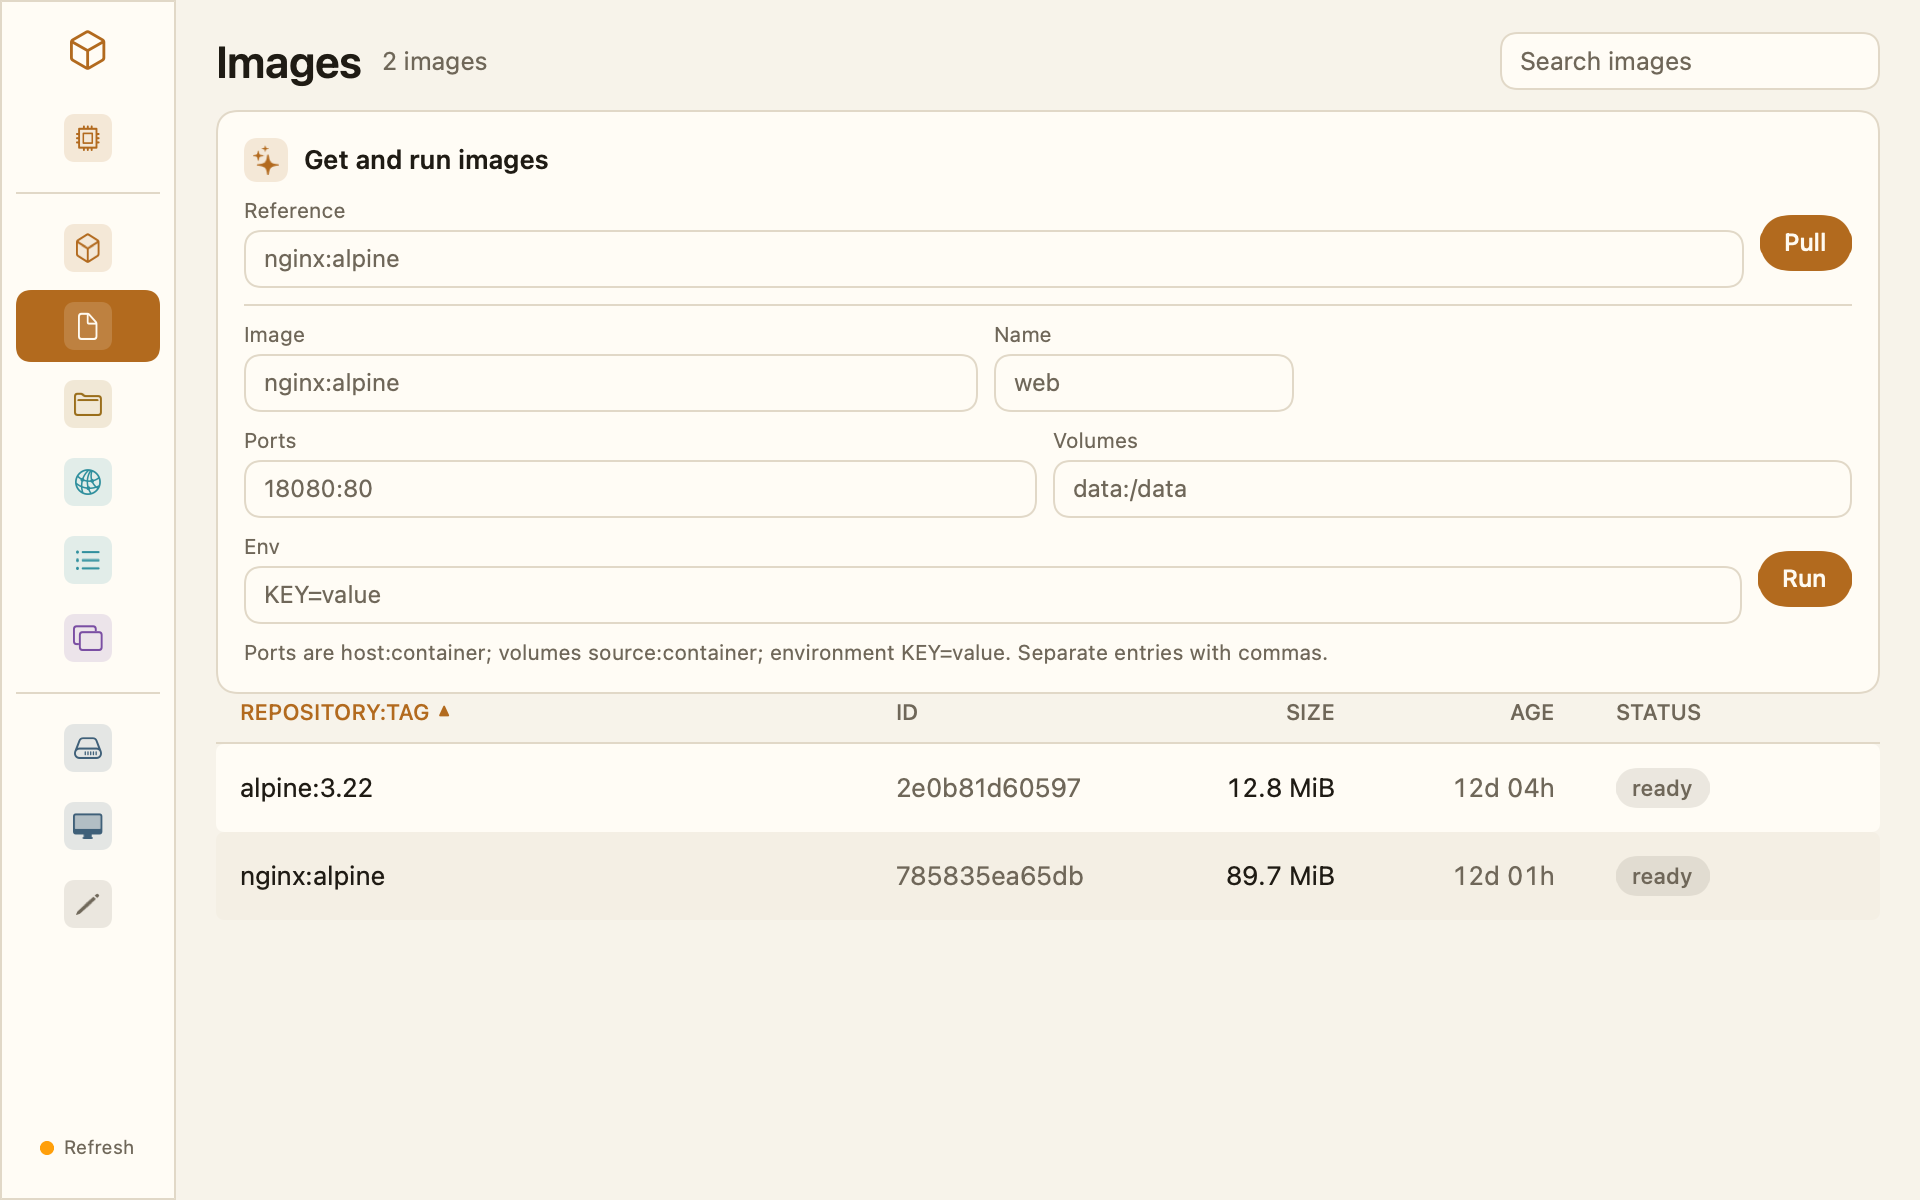
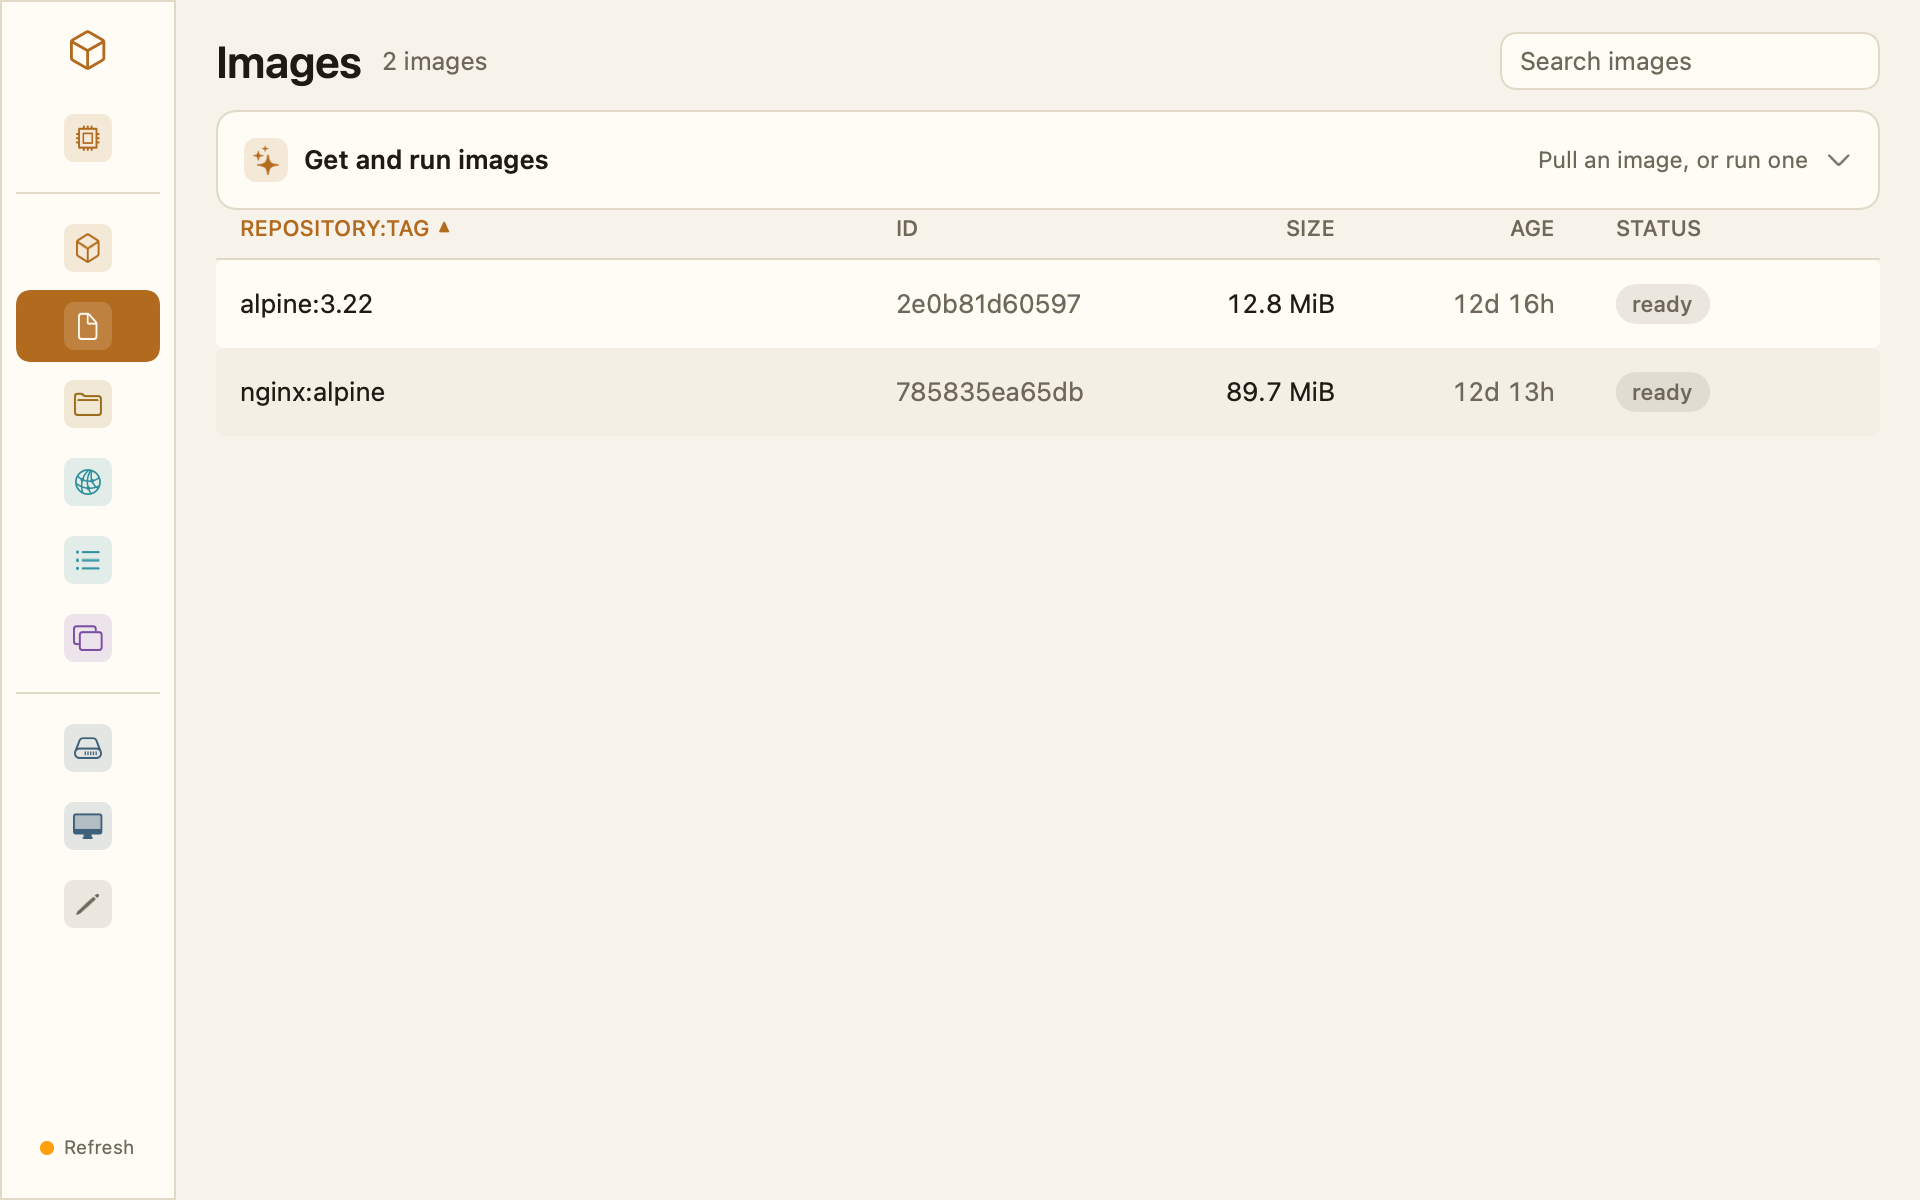
images: collapse the creation card by default, align its grid
The Images page's job is the list, so Get and run images now starts as one
row with a summary and a chevron. Run… from an image's inspector opens the
card with the reference prefilled; the header toggles it.

Expanded, the run options share one exact column width, so Image/Name and
Ports/Volumes split at the same boundary instead of grow's leftover-space
arithmetic giving two slightly different grids. Env takes the full width;
the hint sits bottom-left and Run bottom-right, sharing Pull's right edge
instead of crowding the Env row.

Start all on a Compose project is now the accent primary action like Pull
and Run, Stop all stays neutral, and the host bar's engine segment reads
"engine helpers".

diff --git a/docs/UI-REVIEW.md b/docs/UI-REVIEW.md
@@ -272,7 +272,7 @@ Walked at 1280 in both themes and at 960×600 with the inspector open — the
   with `docker -H unix://… exec -it berth-demo-web sh`; verified the window's
   own title carries the socket-pinned command.
 - **Host bar.** The engine segment now shows the engine's host processes
-  (≈45–93 MiB of `limactl` here) and the caption says "engine procs". The
+  (≈45–93 MiB of `limactl` here) and the caption says "engine helpers". The
   segment deliberately excludes the VM's guest RAM: the containers are
   measured inside it, and counting the VM again would double-count them.
   Values checked against `ps` directly.
@@ -282,3 +282,17 @@ Walked at 1280 in both themes and at 960×600 with the inspector open — the
 Evidence: `volumes-light.png`, `volumes-dialog-light.png`,
 `networks-light.png`, `networks-dialog-dark.png`, `stacks-light.png`,
 `stacks-960.png`, `detail-terminal.png`, `overview.png`, `overview-dark.png`.
+
+## Design review: the creation card, condensed
+
+- **Get and run images is collapsed by default.** One row — sparkles, title,
+  "Pull an image, or run one" and a chevron — so the Images page's job is the
+  list. Run… from an image's inspector opens the card with the reference
+  prefilled; clicking the header toggles it. `images-light.png` is the default
+  view now; the expanded card is in `images-card-open-*.png`.
+- **Expanded, the run options share a real grid.** Image/Name and
+  Ports/Volumes use the same computed column width, so the right edges line
+  up; Env spans the card; the hint sits bottom-left and Run bottom-right,
+  sharing Pull's right edge instead of crowding the Env row.
+- **Stacks:** Start all is the accent primary action, Stop all neutral.
+- **Host bar:** the engine segment is labelled "engine helpers".

diff --git a/README.md b/README.md
@@ -36,7 +36,7 @@ three questions without a terminal:
 | **Live figures** | per-container CPU and memory (two-sample deltas, matching `docker stats`), network and disk I/O, PIDs, uptime and restarts, container history graphs, host CPU and memory |
 | **Inspectors** | container facts and logs (follow, local timestamps, search, copy); image, volume and network details; raw JSON behind an Inspect tab |
 | **Actions** | start, stop, pause, resume, restart, delete; open a container's shell in Terminal; open a published port in the browser; copy the `docker run` command; remove an image, volume or network |
-| **Creation** | pull an image reference and run one with name, ports, volumes and environment — background jobs, so a slow registry never freezes the window; create volumes and networks |
+| **Creation** | pull an image reference and run one with name, ports, volumes and environment — background jobs, so a slow registry never freezes the window; create volumes and networks. The card stays collapsed until you ask for it |
 | **Compose** | containers grouped by project label; start all or stop all of a project's containers through the bulk worker |
 | **Cleanup** | prune stopped containers, unused images/volumes/networks and build cache, with reclaimable sizes first |
 | **Refresh** | a worker thread builds the next snapshot; the last complete one stays on screen, so tables never blink or stall |
